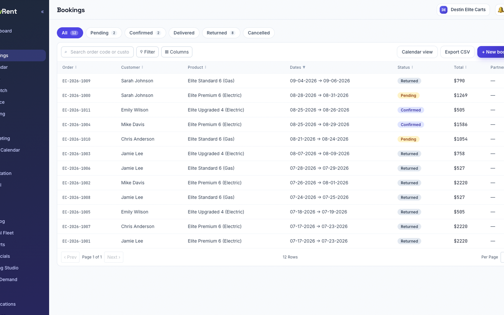
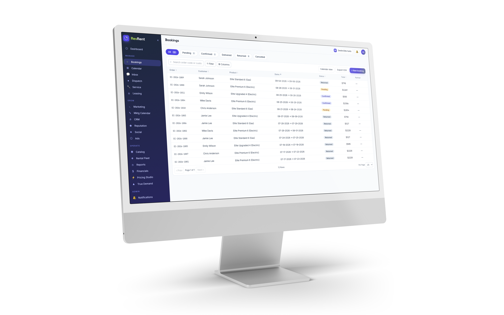
Add RevRent hero image and update homepage card thumbnail
rr_homepage.png (clean re-export) leads the story page as the hero — eager,
fetchpriority high, lightbox on click. rr_full.png demoted to a standard
lazy shot below it. Card thumbnail regenerated from the same mockup.

diff --git a/work/revrent.html b/work/revrent.html
@@ -118,6 +118,36 @@
           class="shot__btn"
           type="button"
           data-lightbox
+          data-full="../assets/images/rr_homepage@2x.webp"
+          data-full-fallback="../assets/images/rr_homepage.png"
+        >
+          <picture>
+            <source
+              type="image/webp"
+              srcset="
+                ../assets/images/rr_homepage.webp    1800w,
+                ../assets/images/rr_homepage@2x.webp 2560w
+              "
+              sizes="(min-width: 1140px) 1044px, 100vw"
+            />
+            <img
+              class="shot__img"
+              src="../assets/images/rr_homepage.png"
+              alt="The RevRent Bookings list running on a desktop monitor — status filter chips carrying count badges above a table of bookings by order, customer, product, dates, status, and total"
+              width="6500"
+              height="4520"
+              loading="eager"
+              fetchpriority="high"
+            />
+          </picture>
+        </button>
+      </figure>
+
+      <figure class="shot reveal">
+        <button
+          class="shot__btn"
+          type="button"
+          data-lightbox
           data-full="../assets/images/rr_full@2x.webp"
           data-full-fallback="../assets/images/rr_full.png"
         >
@@ -136,8 +166,7 @@
               alt="The RevRent Bookings list — status filter chips carrying stable, unfiltered count badges of 12, 2, 2, and 8 above a table of bookings by order, customer, product, dates, status, and total"
               width="4480"
               height="2520"
-              loading="eager"
-              fetchpriority="high"
+              loading="lazy"
             />
           </picture>
         </button>
